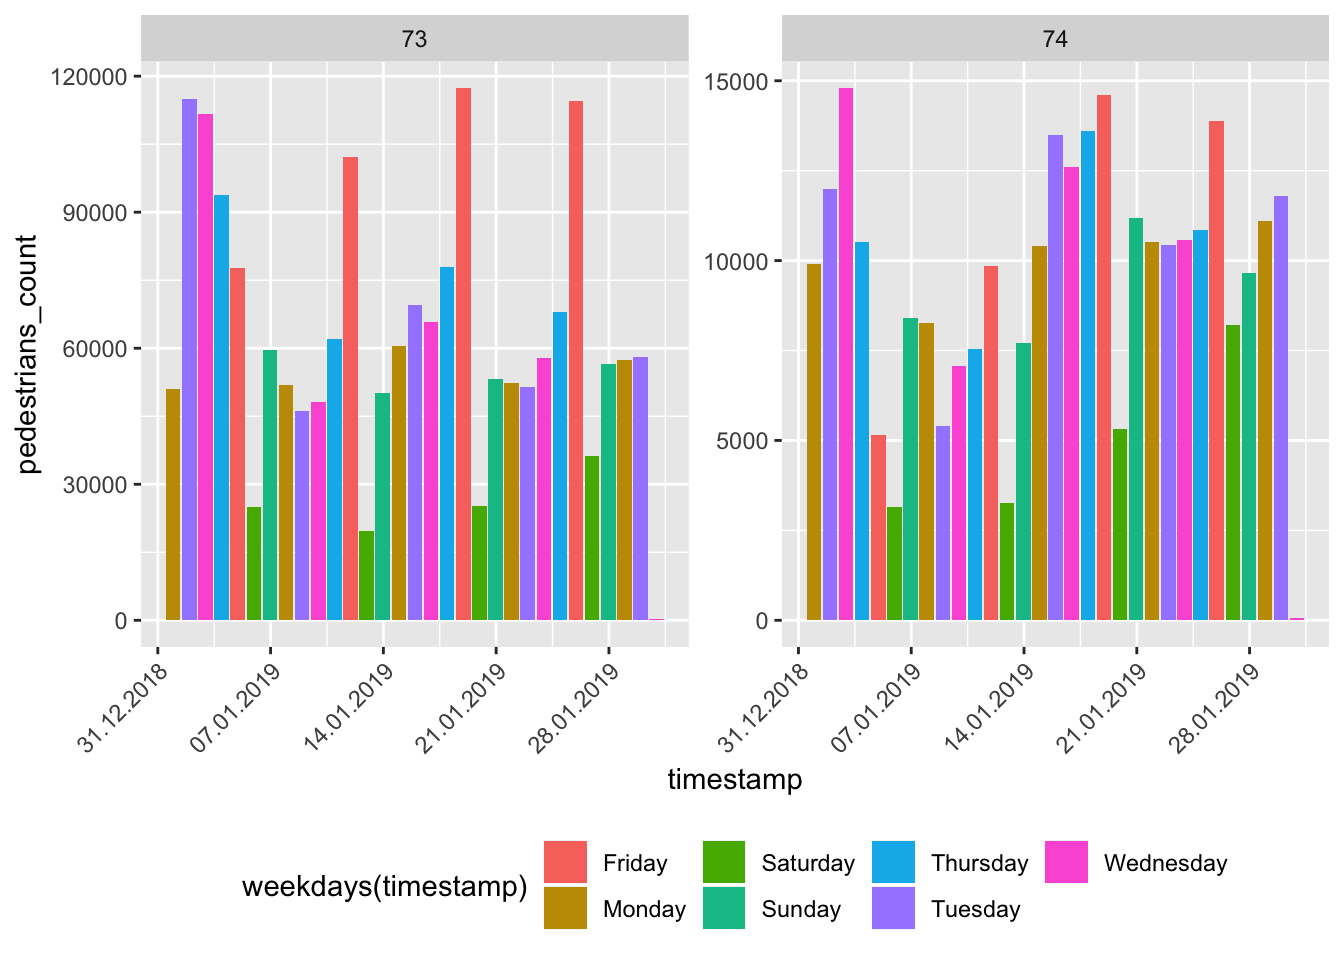
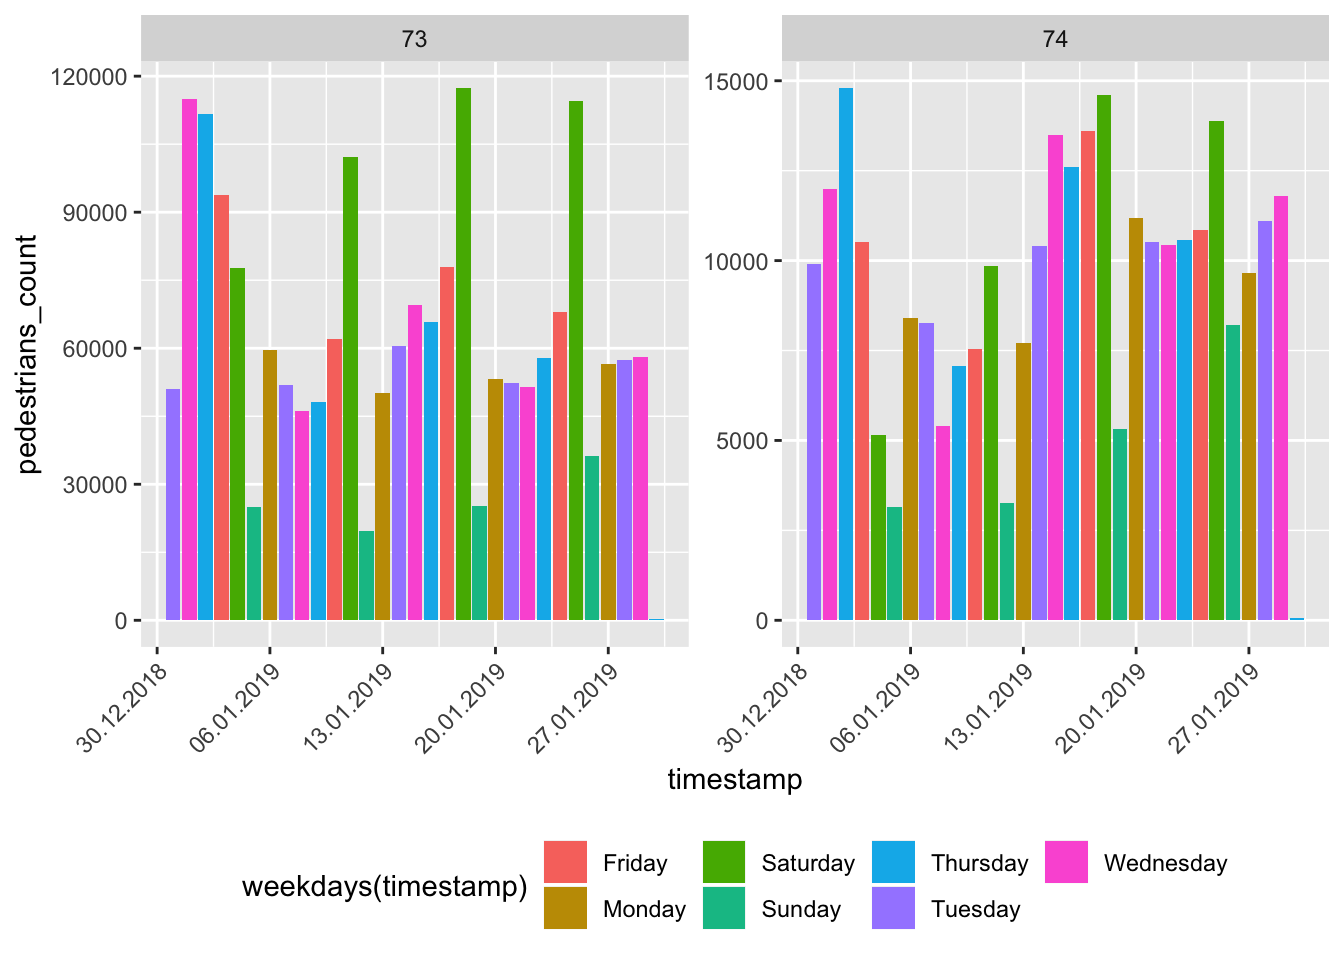
add right timezone

diff --git a/README.md b/README.md
@@ -9,9 +9,9 @@ developed.](http://www.repostatus.org/badges/latest/active.svg)](http://www.repo
 
 ## Introduction
 
-[hyperstreet](https://hystreet.com) is a companie collecting pedestrains
-in german cities. After registering you can download the data for free
-from 19 cities.
+[hystreet](https://hystreet.com) is a company collecting pedestrains in
+german cities. After registering you can download the data for free from
+19 cities.
 
 ## Installation
 
@@ -109,13 +109,13 @@ counts
 
 <td style="text-align:right;">
 
-47
+55
 
 </td>
 
 <td style="text-align:right;">
 
-319335050
+352970219
 
 </td>
 
@@ -172,6 +172,138 @@ city
 
 <td style="text-align:right;">
 
+53
+
+</td>
+
+<td style="text-align:left;">
+
+Schadowstraße (West)
+
+</td>
+
+<td style="text-align:left;">
+
+Düsseldorf
+
+</td>
+
+</tr>
+
+<tr>
+
+<td style="text-align:right;">
+
+114
+
+</td>
+
+<td style="text-align:left;">
+
+Herrenteichsstraße (Ost)
+
+</td>
+
+<td style="text-align:left;">
+
+Osnabrück
+
+</td>
+
+</tr>
+
+<tr>
+
+<td style="text-align:right;">
+
+94
+
+</td>
+
+<td style="text-align:left;">
+
+Kurfürstendamm Südseite (Ost)
+
+</td>
+
+<td style="text-align:left;">
+
+Berlin
+
+</td>
+
+</tr>
+
+<tr>
+
+<td style="text-align:right;">
+
+103
+
+</td>
+
+<td style="text-align:left;">
+
+Schuchardstraße
+
+</td>
+
+<td style="text-align:left;">
+
+Darmstadt
+
+</td>
+
+</tr>
+
+<tr>
+
+<td style="text-align:right;">
+
+108
+
+</td>
+
+<td style="text-align:left;">
+
+Große Straße (Mitte)
+
+</td>
+
+<td style="text-align:left;">
+
+Osnabrück
+
+</td>
+
+</tr>
+
+<tr>
+
+<td style="text-align:right;">
+
+68
+
+</td>
+
+<td style="text-align:left;">
+
+Petersstraße
+
+</td>
+
+<td style="text-align:left;">
+
+Leipzig
+
+</td>
+
+</tr>
+
+<tr>
+
+<td style="text-align:right;">
+
 95
 
 </td>
@@ -194,19 +326,19 @@ Mannheim
 
 <td style="text-align:right;">
 
-69
+107
 
 </td>
 
 <td style="text-align:left;">
 
-Hainstraße
+Krahnstraße (Süd)
 
 </td>
 
 <td style="text-align:left;">
 
-Leipzig
+Osnabrück
 
 </td>
 
@@ -216,19 +348,19 @@ Leipzig
 
 <td style="text-align:right;">
 
-106
+54
 
 </td>
 
 <td style="text-align:left;">
 
-Schönbornstraße
+Schadowstraße (Ost)
 
 </td>
 
 <td style="text-align:left;">
 
-Würzburg
+Düsseldorf
 
 </td>
 
@@ -238,151 +370,19 @@ Würzburg
 
 <td style="text-align:right;">
 
-63
+109
 
 </td>
 
 <td style="text-align:left;">
 
-Georgstraße
+Krahnstraße (Mitte, Altstadt)
 
 </td>
 
 <td style="text-align:left;">
 
-Hannover
-
-</td>
-
-</tr>
-
-<tr>
-
-<td style="text-align:right;">
-
-96
-
-</td>
-
-<td style="text-align:left;">
-
-Planken (West)
-
-</td>
-
-<td style="text-align:left;">
-
-Mannheim
-
-</td>
-
-</tr>
-
-<tr>
-
-<td style="text-align:right;">
-
-71
-
-</td>
-
-<td style="text-align:left;">
-
-Schusterstraße
-
-</td>
-
-<td style="text-align:left;">
-
-Mainz
-
-</td>
-
-</tr>
-
-<tr>
-
-<td style="text-align:right;">
-
-117
-
-</td>
-
-<td style="text-align:left;">
-
-Ludgeristraße
-
-</td>
-
-<td style="text-align:left;">
-
-Münster
-
-</td>
-
-</tr>
-
-<tr>
-
-<td style="text-align:right;">
-
-49
-
-</td>
-
-<td style="text-align:left;">
-
-Westenhellweg
-
-</td>
-
-<td style="text-align:left;">
-
-Dortmund
-
-</td>
-
-</tr>
-
-<tr>
-
-<td style="text-align:right;">
-
-64
-
-</td>
-
-<td style="text-align:left;">
-
-Große Packhofstraße
-
-</td>
-
-<td style="text-align:left;">
-
-Hannover
-
-</td>
-
-</tr>
-
-<tr>
-
-<td style="text-align:right;">
-
-97
-
-</td>
-
-<td style="text-align:left;">
-
-Kurfürstendamm Nordseite (Ost)
-
-</td>
-
-<td style="text-align:left;">
-
-Berlin
+Osnabrück
 
 </td>
 
@@ -497,11 +497,11 @@ ratio %>%
   top_n(5, ratio) %>% 
   arrange(desc(ratio))
 ##   id                         station    ratio
-## 1 73      München (Neuhauser Straße) 87090.08
-## 2 47     Köln (Schildergasse (West)) 63771.38
-## 3 63          Hannover (Georgstraße) 62201.13
-## 4 77 Stuttgart (Königstraße (Mitte)) 52443.51
-## 5 48      Köln (Hohe Straße (Mitte)) 48623.92
+## 1 73      München (Neuhauser Straße) 86538.62
+## 2 47     Köln (Schildergasse (West)) 63698.54
+## 3 63          Hannover (Georgstraße) 62319.37
+## 4 77 Stuttgart (Königstraße (Mitte)) 52406.47
+## 5 48      Köln (Hohe Straße (Mitte)) 48382.38
 ```
 
 Now let´s visualise the top 10 cities:
